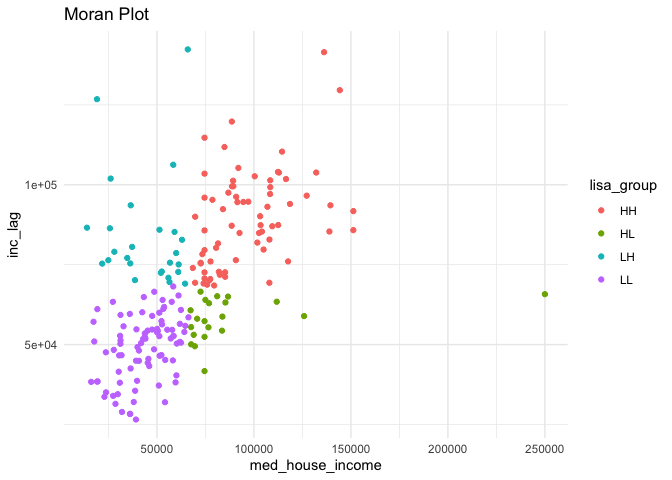
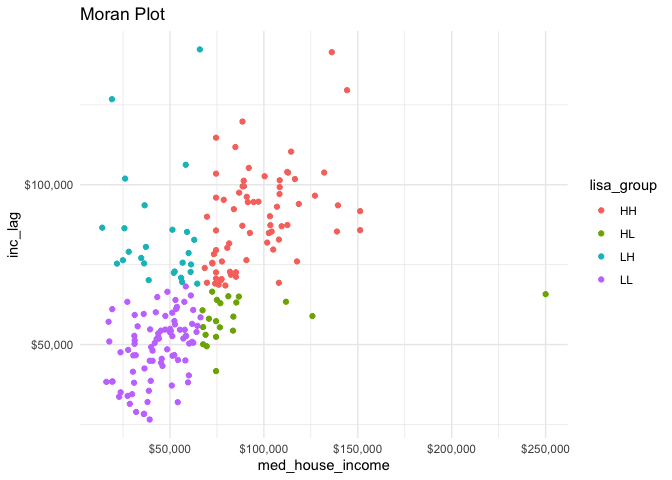
didn't spell kernel correctly...

diff --git a/README.md b/README.md
@@ -8,8 +8,8 @@
 
 The goal of sfweight is to create a tidier and more streamlined
 interface to the spdep package. The spdep package has an idiosyncratic
-syntax that can be difficult to fit into a typical data science work
-flow.
+syntax that can be difficult to fit into a typical data science
+workflow. sfweight creates a simpler interface to the spdep package.
 
 The intention behind sfweight is implement a simpler, but stricter
 workflow that enables the creation of neighbors, spatial weights, and
@@ -46,29 +46,15 @@ acs_lagged <- acs %>%
 durbin_lm <- lm(med_house_income ~ trans_lag + by_pub_trans + bach_lag + bach, 
    data = acs_lagged)
 
-summary(durbin_lm)
-#> 
-#> Call:
-#> lm(formula = med_house_income ~ trans_lag + by_pub_trans + bach_lag + 
-#>     bach, data = acs_lagged)
-#> 
-#> Residuals:
-#>    Min     1Q Median     3Q    Max 
-#> -62571 -11262   -681  12022 158306 
-#> 
-#> Coefficients:
-#>                Estimate Std. Error t value Pr(>|t|)    
-#> (Intercept)   2.107e+04  7.764e+03   2.714  0.00723 ** 
-#> trans_lag     7.543e-01  9.881e-02   7.633 9.48e-13 ***
-#> by_pub_trans -2.756e+04  1.240e+04  -2.221  0.02746 *  
-#> bach_lag     -1.532e+05  2.806e+04  -5.461 1.41e-07 ***
-#> bach          1.647e+05  1.882e+04   8.752 9.22e-16 ***
-#> ---
-#> Signif. codes:  0 '***' 0.001 '**' 0.01 '*' 0.05 '.' 0.1 ' ' 1
-#> 
-#> Residual standard error: 22590 on 198 degrees of freedom
-#> Multiple R-squared:  0.5285, Adjusted R-squared:  0.519 
-#> F-statistic: 55.49 on 4 and 198 DF,  p-value: < 2.2e-16
+broom::tidy(durbin_lm)
+#> # A tibble: 5 x 5
+#>   term            estimate  std.error statistic  p.value
+#>   <chr>              <dbl>      <dbl>     <dbl>    <dbl>
+#> 1 (Intercept)    21073.     7764.          2.71 7.23e- 3
+#> 2 trans_lag          0.754     0.0988      7.63 9.48e-13
+#> 3 by_pub_trans  -27555.    12405.         -2.22 2.75e- 2
+#> 4 bach_lag     -153208.    28056.         -5.46 1.41e- 7
+#> 5 bach          164704.    18820.          8.75 9.22e-16
 ```
 
 ``` r
@@ -78,7 +64,9 @@ acs_lagged %>%
   ggplot(aes(med_house_income, inc_lag, color = lisa_group)) +
   geom_point() +
   labs(title = "Moran Plot") +
-  theme_minimal()
+  theme_minimal() +
+  scale_x_continuous(labels = scales::dollar) + 
+  scale_y_continuous(labels = scales::dollar)
 ```
 
 <img src="man/figures/README-unnamed-chunk-4-1.png" width="100%" />
@@ -247,9 +235,9 @@ airbnb_idw[1]
 #> [78] 153.71365 153.71365 153.71365 148.79092  74.75811
 ```
 
-### Kernal based weights
+### Kernel based weights
 
-Available kernals are:
+Available kernels are:
 
 -   uniform
 -   triangular
@@ -258,7 +246,7 @@ Available kernals are:
 -   gaussian
 
 ``` r
-airbnb_gauss <- st_kernal_weight(airbnb$geometry, airbnb_knn, "gaussian")
+airbnb_gauss <- st_kernel_weight(airbnb$geometry, airbnb_knn, "gaussian")
 
 airbnb_gauss[1]
 #> [[1]]
